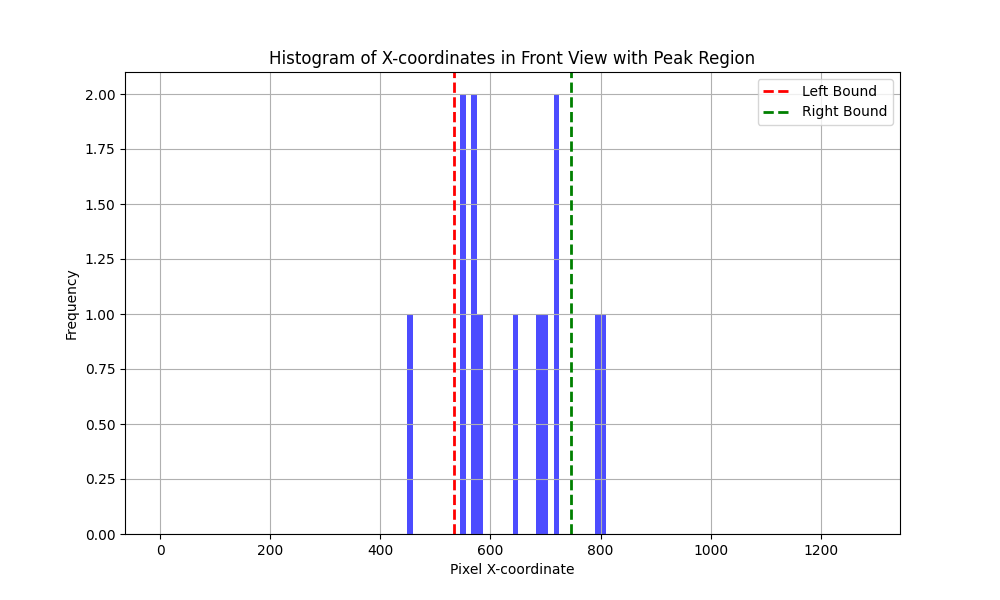
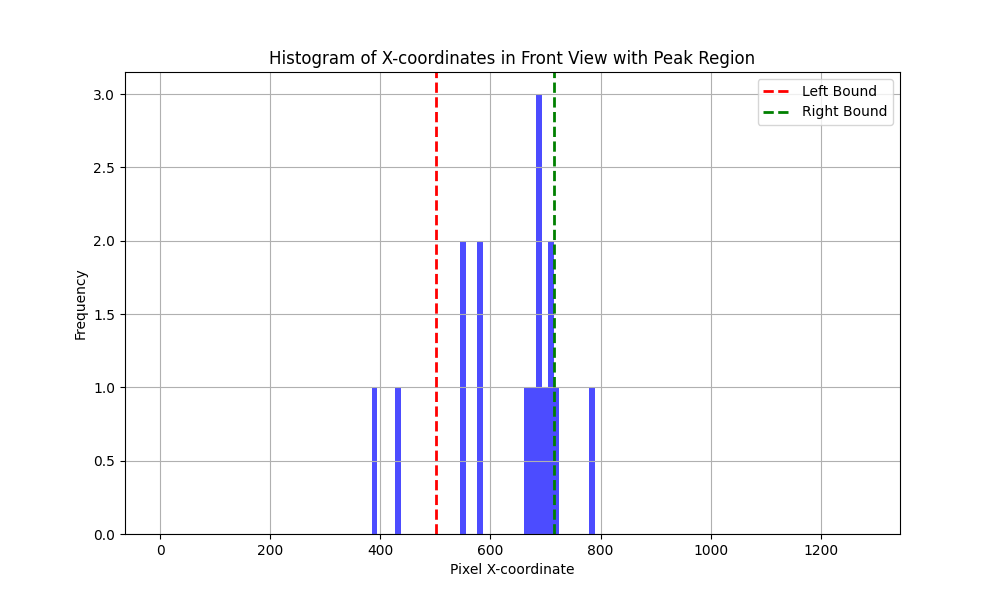
storing groceries filtering the histogram

diff --git a/src/charmie_storing_groceries/charmie_storing_groceries/storing_groceries_v0.py b/src/charmie_storing_groceries/charmie_storing_groceries/storing_groceries_v0.py
@@ -1740,62 +1740,80 @@ class StoringGroceriesMain():
         plt.savefig('histogram_front_view.png')
         plt.close()
 
-        # Calculate the histogram
+        # Calculate the histogram and find peaks for front view
         hist_front, bins_front = np.histogram(y_coordinates_front_view, bins=bins_front, range=(0, width))
-        # max_index_front = np.argmax(hist_front)
-
         threshold = np.max(hist_front) * 0.8
         peak_indices_front = np.where(hist_front >= threshold)[0]
 
         # Define the range of neighbors to consider
         neighbor_ranges = [(2, 17), (17, 2), (9, 9)]
-        best_peak_index_front = None
-        highest_neighbor_count_front = 0
+
+        # Store neighbor counts for front view peaks
         neighbor_counts_front = {}
-        
+
+        # Initialize variables to track the best peak and its associated neighbor range
+        best_peak_index_front = None
+        highest_count_across_peaks_front = 0
+        best_neighbor_range_front = None
+        left_bound_front = None
+        right_bound_front = None
+        left_bound_final_front = None
+        right_bound_final_front = None
 
         for index in peak_indices_front:
             best_range_front = None
             highest_sum_front = 0
             neighbor_counts = []
+
             for left, right in neighbor_ranges:
                 start_index_front = max(0, index - left)
                 end_index_front = min(len(hist_front) - 1, index + right)
                 total_frequency = np.sum(hist_front[start_index_front:end_index_front + 1])
 
                 # Calculate number of objects in this range
-                left_bound_front = bins_front[start_index_front]
-                right_bound_front = bins_front[end_index_front + 1]
-                objects_in_range_front = np.sum((y_coordinates_front_view >= left_bound_front) & (y_coordinates_front_view < right_bound_front))
+                left_bound_front_current = bins_front[start_index_front]
+                right_bound_front_current = bins_front[end_index_front + 1]
+                objects_in_range_front = np.sum((y_coordinates_front_view >= left_bound_front_current) & (y_coordinates_front_view < right_bound_front_current))
 
                 neighbor_counts.append(objects_in_range_front)
 
                 if total_frequency > highest_sum_front:
                     highest_sum_front = total_frequency
                     best_range_front = (start_index_front, end_index_front)
+                    left_bound_front = left_bound_front_current
+                    right_bound_front = right_bound_front_current
 
-            # Calculate number of objects in the best range for this peak
-            left_bound_front = bins_front[best_range_front[0]]
-            right_bound_front = bins_front[best_range_front[1] + 1]
-            objects_in_range_front = np.sum((y_coordinates_front_view >= left_bound_front) & (y_coordinates_front_view < right_bound_front))
-            
-            # Store neighbor counts for this peak
+            # Store neighbor counts for this peak index
             neighbor_counts_front[index] = neighbor_counts
 
-            if objects_in_range_front > highest_neighbor_count_front:
-                highest_neighbor_count_front = objects_in_range_front
+            # Find the highest count across all neighbor ranges for this peak index
+            max_count_for_peak_front = max(neighbor_counts)
+            
+            # Check if this peak index has a higher count than previously found peaks
+            if max_count_for_peak_front > highest_count_across_peaks_front:
+                highest_count_across_peaks_front = max_count_for_peak_front
                 best_peak_index_front = index
+                
+                # Determine which neighbor range had the highest count for this peak index
+                best_neighbor_range_index_front = np.argmax(neighbor_counts)
+                best_neighbor_range_front = neighbor_ranges[best_neighbor_range_index_front]
+                left_bound_final_front = left_bound_front
+                right_bound_final_front = right_bound_front
 
-        # Print the best peak and its neighbor count
-        left_bound_front = bins_front[best_range_front[0]]
-        right_bound_front = bins_front[best_range_front[1] + 1]
-
+        # Print the best peak and its highest count and selected neighbor range
+        print('--------------------')
         print(f"Best peak in front view histogram: {bins_front[best_peak_index_front]}")
-        print(f"Objects in neighbors range: {highest_neighbor_count_front}")
-
+        print(f"Highest count: {highest_count_across_peaks_front}")
+        print(f"Selected neighbor range: {best_neighbor_range_front}")
+        print(f"Left bound of selected range: {left_bound_final_front}")
+        print(f"Right bound of selected range: {right_bound_final_front}")
         print("Neighbor counts for front view peaks:")
         for index, counts in neighbor_counts_front.items():
             print(f"Peak at bin {bins_front[index]}: {counts}")
+
+
+
+
 
 
         """ ####
@@ -1817,62 +1835,72 @@ class StoringGroceriesMain():
         plt.savefig('histogram_top_view.png')
         plt.close()
 
-
-
         # Calculate the histogram
         hist_top, bins_top = np.histogram(y_coordinates_top_view, bins=bins_top, range=(0, height))
-        # max_index_top = np.argmax(hist_top)
 
+        # Determine the threshold for peak detection
         threshold = np.max(hist_top) * 0.8
         peak_indices_top = np.where(hist_top >= threshold)[0]
 
         # Define the range of neighbors to consider
-        neighbor_ranges = [(1, 6), (6, 1), (4, 4)]
+        neighbor_ranges = [(2, 8), (8, 2), (5, 5)]
+
+        # Initialize variables to track best peak and its properties
         best_peak_index_top = None
         highest_neighbor_count_top = 0
-
-        # Store neighbor counts for top view peaks
+        selected_neighbor_range_top = None
         neighbor_counts_top = {}
-        
+        left_bound_top = None
+        right_bound_top = None
+
+        # Loop through each peak index identified in the histogram
         for index in peak_indices_top:
             best_range_top = None
             highest_sum_top = 0
             neighbor_counts = []
+
+            # Evaluate different neighbor ranges for this peak index
             for left, right in neighbor_ranges:
                 start_index_top = max(0, index - left)
                 end_index_top = min(len(hist_top) - 1, index + right)
+                
+                # Calculate total frequency in the current range
                 total_frequency = np.sum(hist_top[start_index_top:end_index_top + 1])
 
                 # Calculate number of objects in this range
-                left_bound_top = bins_top[start_index_top]
-                right_bound_top = bins_top[end_index_top + 1]
-                objects_in_range_top = np.sum((y_coordinates_top_view >= left_bound_top) & (y_coordinates_top_view < right_bound_top))
+                left_bound_top_current = bins_top[start_index_top]
+                right_bound_top_current = bins_top[end_index_top + 1]
+                objects_in_range_top = np.sum((y_coordinates_top_view >= left_bound_top_current) & (y_coordinates_top_view < right_bound_top_current))
 
                 neighbor_counts.append(objects_in_range_top)
 
+                # Track the highest total frequency and its associated range
                 if total_frequency > highest_sum_top:
                     highest_sum_top = total_frequency
                     best_range_top = (start_index_top, end_index_top)
-
-            # Calculate number of objects in the best range for this peak
-            left_bound_top = bins_top[best_range_top[0]]
-            right_bound_top = bins_top[best_range_top[1] + 1]
-            objects_in_range_top = np.sum((y_coordinates_top_view >= left_bound_top) & (y_coordinates_top_view < right_bound_top))
+                    left_bound_top = left_bound_top_current  # Update left bound
+                    right_bound_top = right_bound_top_current  # Update right bound
 
             # Store neighbor counts for this peak
             neighbor_counts_top[index] = neighbor_counts
 
-            if objects_in_range_top > highest_neighbor_count_top:
-                highest_neighbor_count_top = objects_in_range_top
+            # Check for the highest count within neighbor counts
+            max_count = max(neighbor_counts)
+            if max_count > highest_neighbor_count_top:
+                highest_neighbor_count_top = max_count
                 best_peak_index_top = index
+                selected_neighbor_range_top = neighbor_ranges[np.argmax(neighbor_counts)]
+                left_bound_final = left_bound_top
+                right_bound_final = right_bound_top
 
-        # Print the best peak and its neighbor count
-        left_bound_top = bins_top[best_range_top[0]]
-        right_bound_top = bins_top[best_range_top[1] + 1]
 
+        # Print the results
+        print('--------------------')
         print(f"Best peak in top view histogram: {bins_top[best_peak_index_top]}")
-        print(f"Objects in neighbors range: {highest_neighbor_count_top}")
-
+        print(f"Highest count: {highest_neighbor_count_top}")
+        print(f"Selected neighbor range: {selected_neighbor_range_top}")
+        print(f"Left bound of selected range: {left_bound_final}")
+        print(f"Right bound of selected range: {right_bound_final}")
         print("Neighbor counts for top view peaks:")
         for index, counts in neighbor_counts_top.items():
             print(f"Peak at bin {bins_top[index]}: {counts}")
@@ -1892,15 +1920,15 @@ class StoringGroceriesMain():
             print('- :', img_x, img_y, img_z)
             print('- :', left_bound_front, right_bound_front, left_bound_top, right_bound_top)
 
-            if left_bound_front <= img_x <= right_bound_front and left_bound_top <= img_y <= right_bound_top:
+            if left_bound_final_front <= img_x <= right_bound_final_front and left_bound_final <= img_y <= right_bound_final:
                 print('- :', name)
                 filtered_coordinates.append((name, x, y, z))
 
         # Plotting the peak regions in histograms
         plt.figure(figsize=(10, 6))
         plt.hist(y_coordinates_front_view, bins=bins_front, range=(0, width), color='blue', alpha=0.7)
-        plt.axvline(left_bound_front, color='red', linestyle='--', linewidth=2, label='Left Bound')
-        plt.axvline(right_bound_front, color='green', linestyle='--', linewidth=2, label='Right Bound')
+        plt.axvline(left_bound_final_front, color='red', linestyle='--', linewidth=2, label='Left Bound')
+        plt.axvline(right_bound_final_front, color='green', linestyle='--', linewidth=2, label='Right Bound')
         plt.title("Histogram of X-coordinates in Front View with Peak Region")
         plt.xlabel("Pixel X-coordinate")
         plt.ylabel("Frequency")
@@ -1911,8 +1939,8 @@ class StoringGroceriesMain():
 
         plt.figure(figsize=(10, 6))
         plt.hist(y_coordinates_top_view, bins=bins_top, range=(0, height), color='green', alpha=0.7)
-        plt.axvline(left_bound_top, color='red', linestyle='--', linewidth=2, label='Left Bound')
-        plt.axvline(right_bound_top, color='green', linestyle='--', linewidth=2, label='Right Bound')
+        plt.axvline(left_bound_final , color='red', linestyle='--', linewidth=2, label='Left Bound')
+        plt.axvline(right_bound_final, color='green', linestyle='--', linewidth=2, label='Right Bound')
         plt.title("Histogram of Z-coordinates in Top View with Peak Region")
         plt.xlabel("Pixel Z-coordinate")
         plt.ylabel("Frequency")
@@ -1987,30 +2015,11 @@ class StoringGroceriesMain():
                 self.set_neck(position=self.look_forward, wait_for_end_of=False)
 
                 data = []
-                # tetas = [[-120, -10], [-60, -10], [0, -10], [60, -10], [120, -10]]
-                # tetas = [[0, -45], [0, -30], [0, -15], [0, 0]]
-                # objects_found = self.search_for_objects(tetas=tetas, delta_t=3.0, use_arm=False, detect_objects=True, detect_shoes=False, detect_doors=False)
+                tetas = [[-120, -10], [-60, -10], [0, -10], [60, -10], [120, -10]]
+                tetas = [[0, -45], [0, -30], [0, -15], [0, 0]]
+                objects_found = self.search_for_objects(tetas=tetas, delta_t=3.0, use_arm=False, detect_objects=True, detect_shoes=False, detect_doors=False)
 
-                # for o in objects_found:
-                    
-                #     print(o.index, o.object_name, "\t", 
-                #         round(o.position_absolute.x, 2), round(o.position_absolute.y, 2), 
-                #         round(o.position_absolute.z, 2)) # round(o.box_center_x), round(o.box_center_y)
-                #     name = o.object_name
-                #     x = round(o.position_absolute.x, 2)
-                #     y = round(o.position_absolute.y, 2)
-                #     z = round(o.position_absolute.z, 2)
-                #     data.append((name, x, y, z))
-                
-                # print('Nr de objetos: ', len(data))
-
-                # print(self.node.filtered_objects_storing_groceries)
-                print('waiting...')
-                while self.node.flag_storing_groceries_received == False:
-                    pass
-                time.sleep(2)
-                
-                for o in self.node.filtered_objects_storing_groceries:
+                for o in objects_found:
                     
                     print(o.index, o.object_name, "\t", 
                         round(o.position_absolute.x, 2), round(o.position_absolute.y, 2), 
@@ -2020,13 +2029,33 @@ class StoringGroceriesMain():
                     y = round(o.position_absolute.y, 2)
                     z = round(o.position_absolute.z, 2)
                     data.append((name, x, y, z))
+                
+                print('Nr de objetos: ', len(data))
 
-                self.node.flag_storing_groceries_received = False
-                self.node.filtered_objects_storing_groceries.clear()
-                print('---', data)
+                # print(self.node.filtered_objects_storing_groceries)
+                # print('waiting...')
+                # while self.node.flag_storing_groceries_received == False:
+                #     pass
+                # time.sleep(2)
+                
+                # for o in self.node.filtered_objects_storing_groceries:
+                    
+                #     print(o.index, o.object_name, "\t", 
+                #         round(o.position_absolute.x, 2), round(o.position_absolute.y, 2), 
+                #         round(o.position_absolute.z, 2)) # round(o.box_center_x), round(o.box_center_y)
+                #     name = o.object_name
+                #     x = round(o.position_absolute.x, 2)
+                #     y = round(o.position_absolute.y, 2)
+                #     z = round(o.position_absolute.z, 2)
+                #     data.append((name, x, y, z))
+
+                # self.node.flag_storing_groceries_received = False
+                # self.node.filtered_objects_storing_groceries.clear()
+                # print('---', data)
                 filtered_objects = self.plot_histograms(data)     
 
                 print('Filtered objects:', filtered_objects)
+                print('nr de objetos filtrados: ', len(filtered_objects))
 
                 while True:
                     pass
